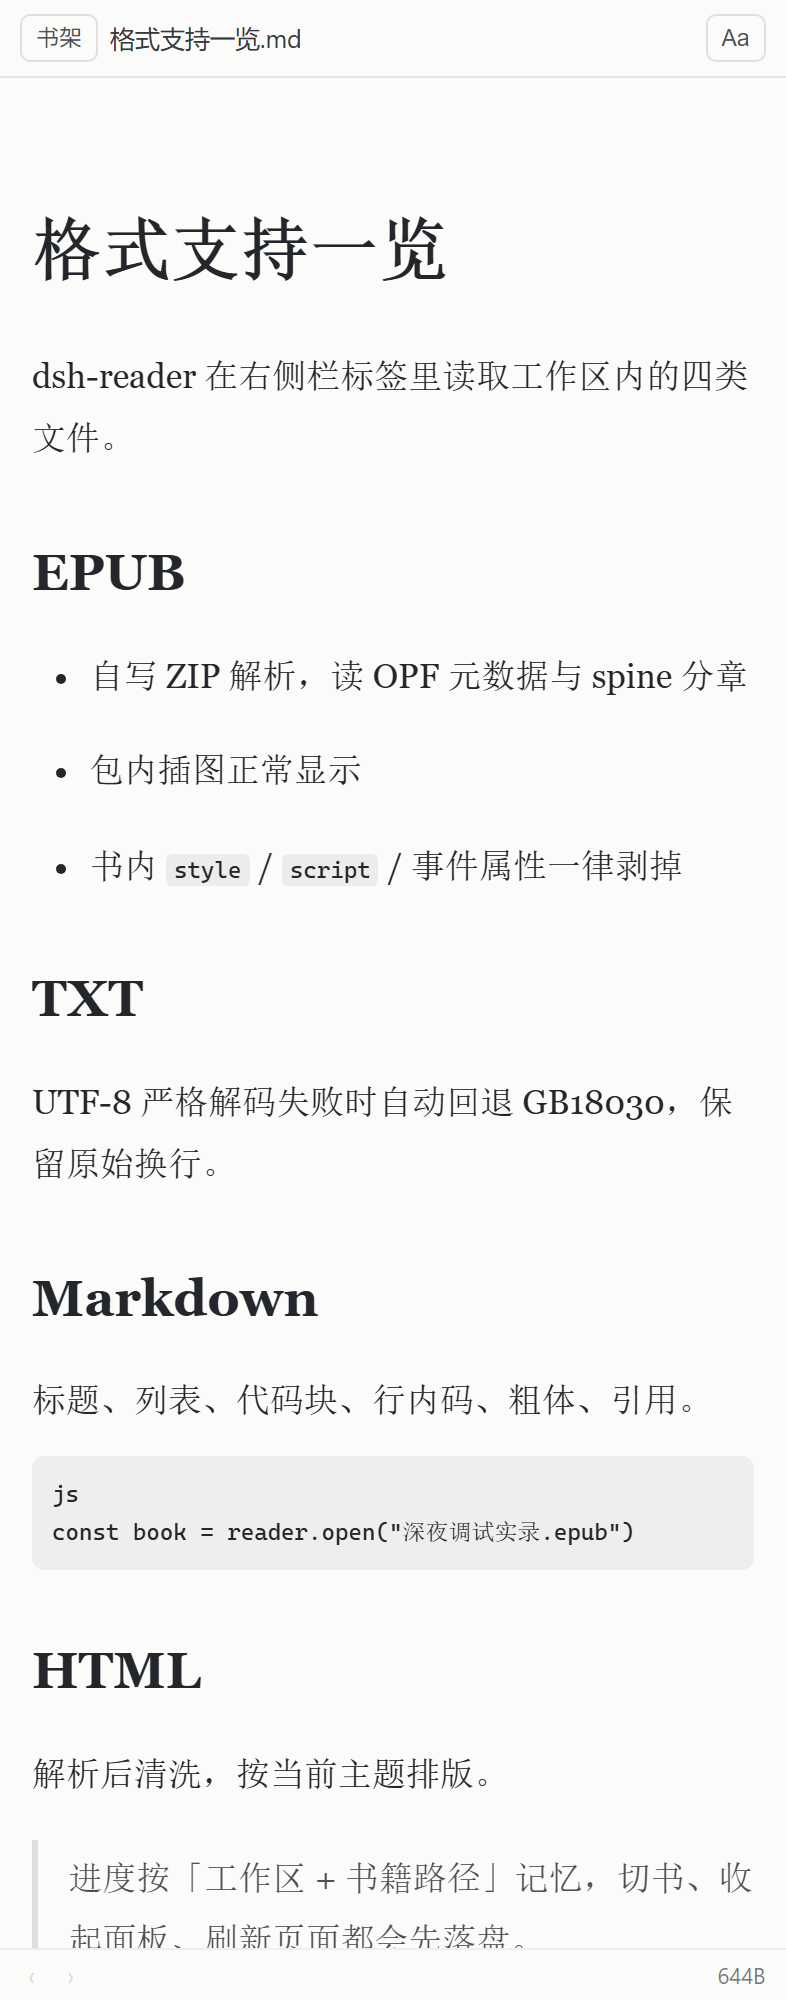
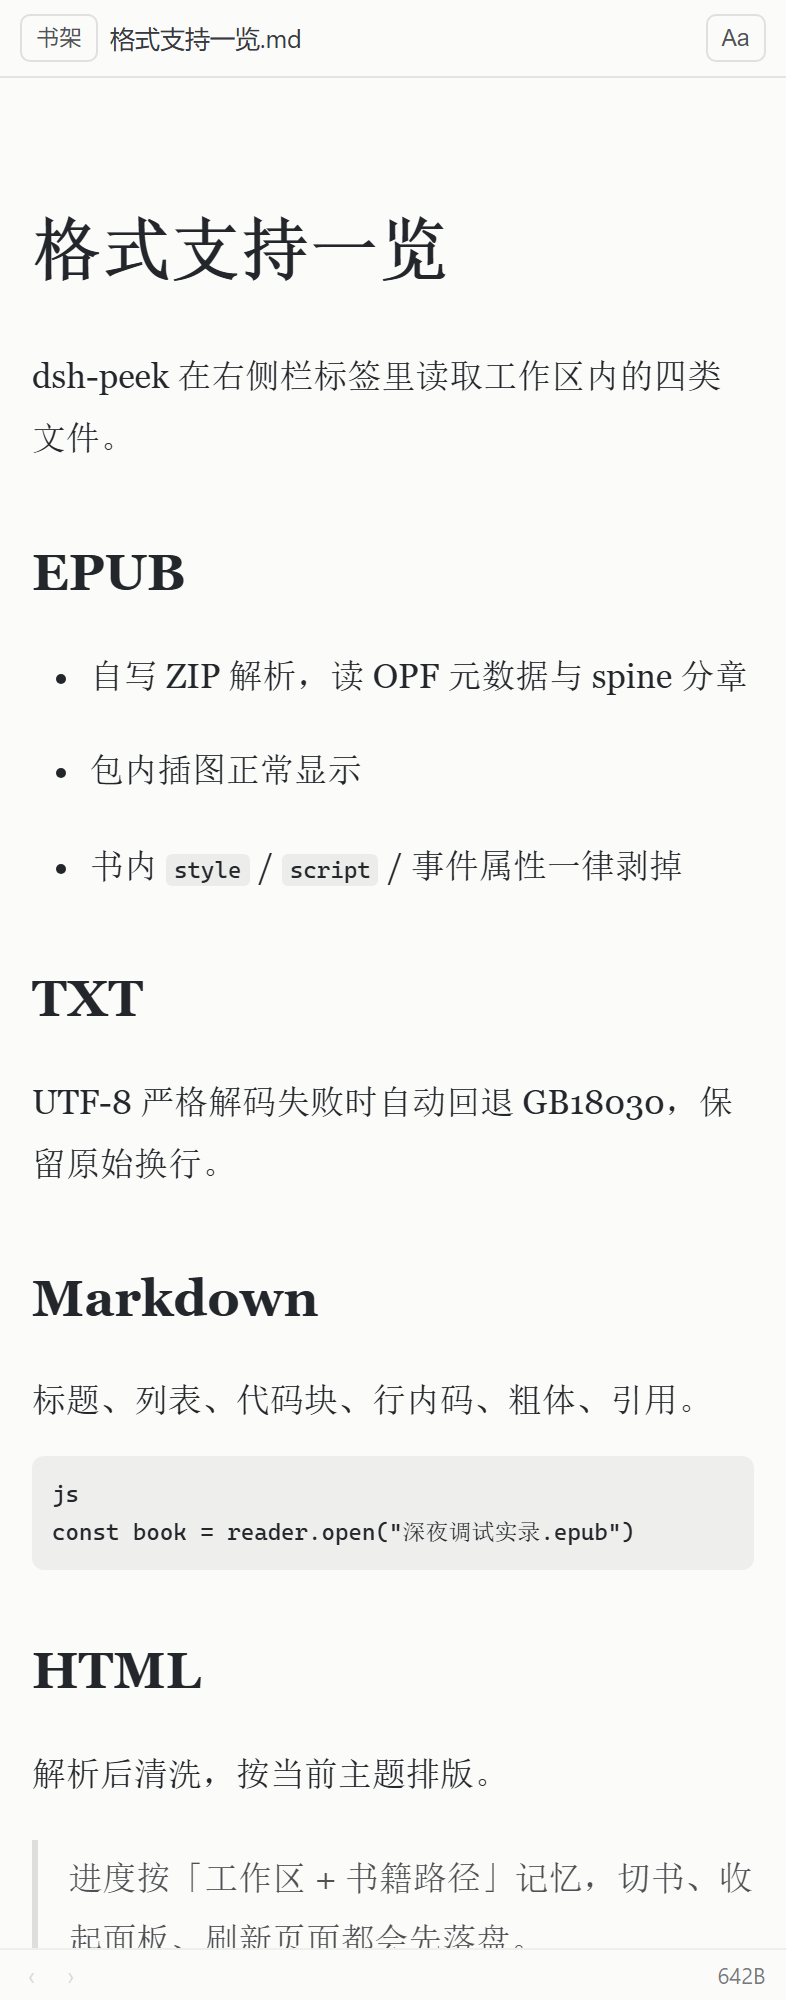
refactor: 改名 dsh-peek，避开上游同名条目
- package.json name / repository、cordis.patch.yml 的 id 与 name、client bundle 的
  module id / TAB_ID / STYLE_ID / 日志标签全部改为 dsh-peek
- README 标题与安装命令同步；截图用 demo 工作区重拍，正文里的旧名已替换
- localStorage 键前缀保留 dsh-reader:，改掉会丢掉已存的阅读进度与设置
- 破坏性：profile 里旧的 dsh-reader 条目需删除后重新 plugin add

Changed region(s): [[0.1221, 0.155, 0.6412, 0.217], [0.7023, 0.155, 0.9466, 0.217]]

diff --git a/lib/client.js b/lib/client.js
@@ -1,20 +1,20 @@
 /**
- * dsh-reader 的浏览器半侧：在右侧栏注册一个 `reader` tab 类型。
+ * dsh-peek 的浏览器半侧：在右侧栏注册一个 `reader` tab 类型。
  *
  * 只依赖三个客户端服务：slots / sidebarRight / sidebarRightTabs。
  * 书籍字节走同源 `/reader/api/*`（由宿主半侧 index.js 提供），
  * 因此不需要 remote、session 或 workspaceFiles 的授权链路。
  */
 window.__ModuleLoader__.load({
-  id: "dsh-reader",
+  id: "dsh-peek",
   factory: (require) => {
     var react = require("react")
 
     const h = react.createElement
-    const PLUGIN = "dsh-reader"
-    const TAB_ID = "dsh-reader/reader"
+    const PLUGIN = "dsh-peek"
+    const TAB_ID = "dsh-peek/reader"
     const KIND = "reader"
-    const STYLE_ID = "dsh-reader-style"
+    const STYLE_ID = "dsh-peek-style"
 
     const inject = ["slots", "sidebarRight", "sidebarRightTabs"]
 
@@ -339,6 +339,7 @@ window.__ModuleLoader__.load({
     /* ------------------------------------------------------------------ 阅读器 */
 
     const LSK = {
+      // 存储前缀故意保留改名前的 dsh-reader:，改掉会丢掉已存的阅读进度与阅读设置
       ws: "dsh-reader:ws",
       theme: "dsh-reader:theme",
       size: "dsh-reader:size",
@@ -982,7 +983,7 @@ window.__ModuleLoader__.load({
 
       const collapse = () => {
         try { ctx.sidebarRight.toggleExpanded() } catch (error) {
-          console.warn("[dsh-reader] 收起侧栏失败", error)
+          console.warn("[dsh-peek] 收起侧栏失败", error)
         }
       }
 
@@ -997,17 +998,17 @@ window.__ModuleLoader__.load({
           title: () => "阅读器",
           description: () => "在工作区里读书，Esc 一键收起",
         }],
-      }), "dsh-reader: tab type")
+      }), "dsh-peek: tab type")
 
       ctx.effect(() => ctx.slots.inject("sidebar.right.pane.tab", () => ctx.slots.register({
         name: "sidebar.right.pane.tab",
         key: TAB_ID,
-      }, (props) => h(Reader, { ...props, onBossKey: collapse }))), "dsh-reader: pane body")
+      }, (props) => h(Reader, { ...props, onBossKey: collapse }))), "dsh-peek: pane body")
 
       ctx.effect(() => ctx.slots.inject("sidebar.right.pane.tab.title", () => ctx.slots.register({
         name: "sidebar.right.pane.tab.title",
         key: TAB_ID,
-      }, () => h("span", null, "阅读器"))), "dsh-reader: pane title")
+      }, () => h("span", null, "阅读器"))), "dsh-peek: pane title")
     }
 
     return { name: PLUGIN, inject, apply, __mount: mount }

diff --git a/scripts/dev.html b/scripts/dev.html
@@ -2,7 +2,7 @@
 <html lang="zh-CN">
 <head>
 <meta charset="utf-8">
-<title>dsh-reader dev</title>
+<title>dsh-peek dev</title>
 <style>
   body{margin:0;display:flex;height:100vh;background:#1b1d21;font-family:-apple-system,"Segoe UI",sans-serif}
   #host{width:420px;height:100%;border-right:1px solid #333;color:#c9cdd4;background:#fbfbf9;color:#23262b}
@@ -15,11 +15,11 @@
   这里只验证客户端 bundle 的阅读面板本身（用假 react，不经过 dsh 的 slot 系统）。<br>
   真实入口（右侧栏 tab / guide 卡片 / Esc 收起侧栏）只能在装进 dsh 后验证。
 </div>
-<script>window.__ModuleLoader__ = { load: (spec) => { window.__dshReaderSpec = spec } }</script>
+<script>window.__ModuleLoader__ = { load: (spec) => { window.__dshPeekSpec = spec } }</script>
 <script src="/__dev/client.js"></script>
 <script>
   const stub = { createElement: () => null, useRef: () => ({ current: null }), useEffect: () => {} }
-  const spec = window.__dshReaderSpec
+  const spec = window.__dshPeekSpec
   if (!spec) {
     document.getElementById('note').textContent = 'bundle 未注册 factory'
   } else {

diff --git a/index.js b/index.js
@@ -1,5 +1,5 @@
 /**
- * dsh-reader — 宿主侧插件。
+ * dsh-peek — 宿主侧插件。
  *
  * 只做三件事，全部落在 dsh 自己的 webServer 上：
  *   1. `/reader`            一个自包含的阅读页（无外部请求，便于隐蔽）
@@ -12,7 +12,7 @@ import { createReadStream, promises as fsp } from 'node:fs'
 import path from 'node:path'
 import { fileURLToPath } from 'node:url'
 
-export const name = 'dsh-reader'
+export const name = 'dsh-peek'
 export const inject = ['webServer']
 
 const HERE = path.dirname(fileURLToPath(import.meta.url))
@@ -224,7 +224,7 @@ export function apply(ctx, config = {}) {
           return await handleApi(req, res)
         } catch (error) {
           const status = error?.status ?? 500
-          if (status >= 500) console.warn('[dsh-reader]', error)
+          if (status >= 500) console.warn('[dsh-peek]', error)
           return json(res, status, { error: error?.message ?? String(error) })
         }
       },

diff --git a/README.md b/README.md
@@ -1,4 +1,4 @@
-# dsh-reader
+# dsh-peek
 
 DeepSeek Harness 的**右侧栏阅读器**：在 dsh 的 Web GUI 里注册一个 `reader` 标签，点开就在右侧栏里读书——不跳页、不弹新窗口。文件取自 **dsh 自己注册的工作区**，渲染 EPUB / TXT / Markdown / HTML，PDF 交给浏览器原生查看器。
 
@@ -7,7 +7,7 @@ DeepSeek Harness 的**右侧栏阅读器**：在 dsh 的 Web GUI 里注册一个
 ## 安装
 
 ```powershell
-dsh plugin --profile web add github:guiyuan77/dsh-reader
+dsh plugin --profile web add github:guiyuan77/dsh-peek
 ```
 
 需要 dsh `0.2.x`。装完**重启 `dsh web`** 才生效——`plugin add` 会改写 profile 的 `package.json` 与 `node_modules`；跑着的会话 UI 会断开，会话记录不丢。
